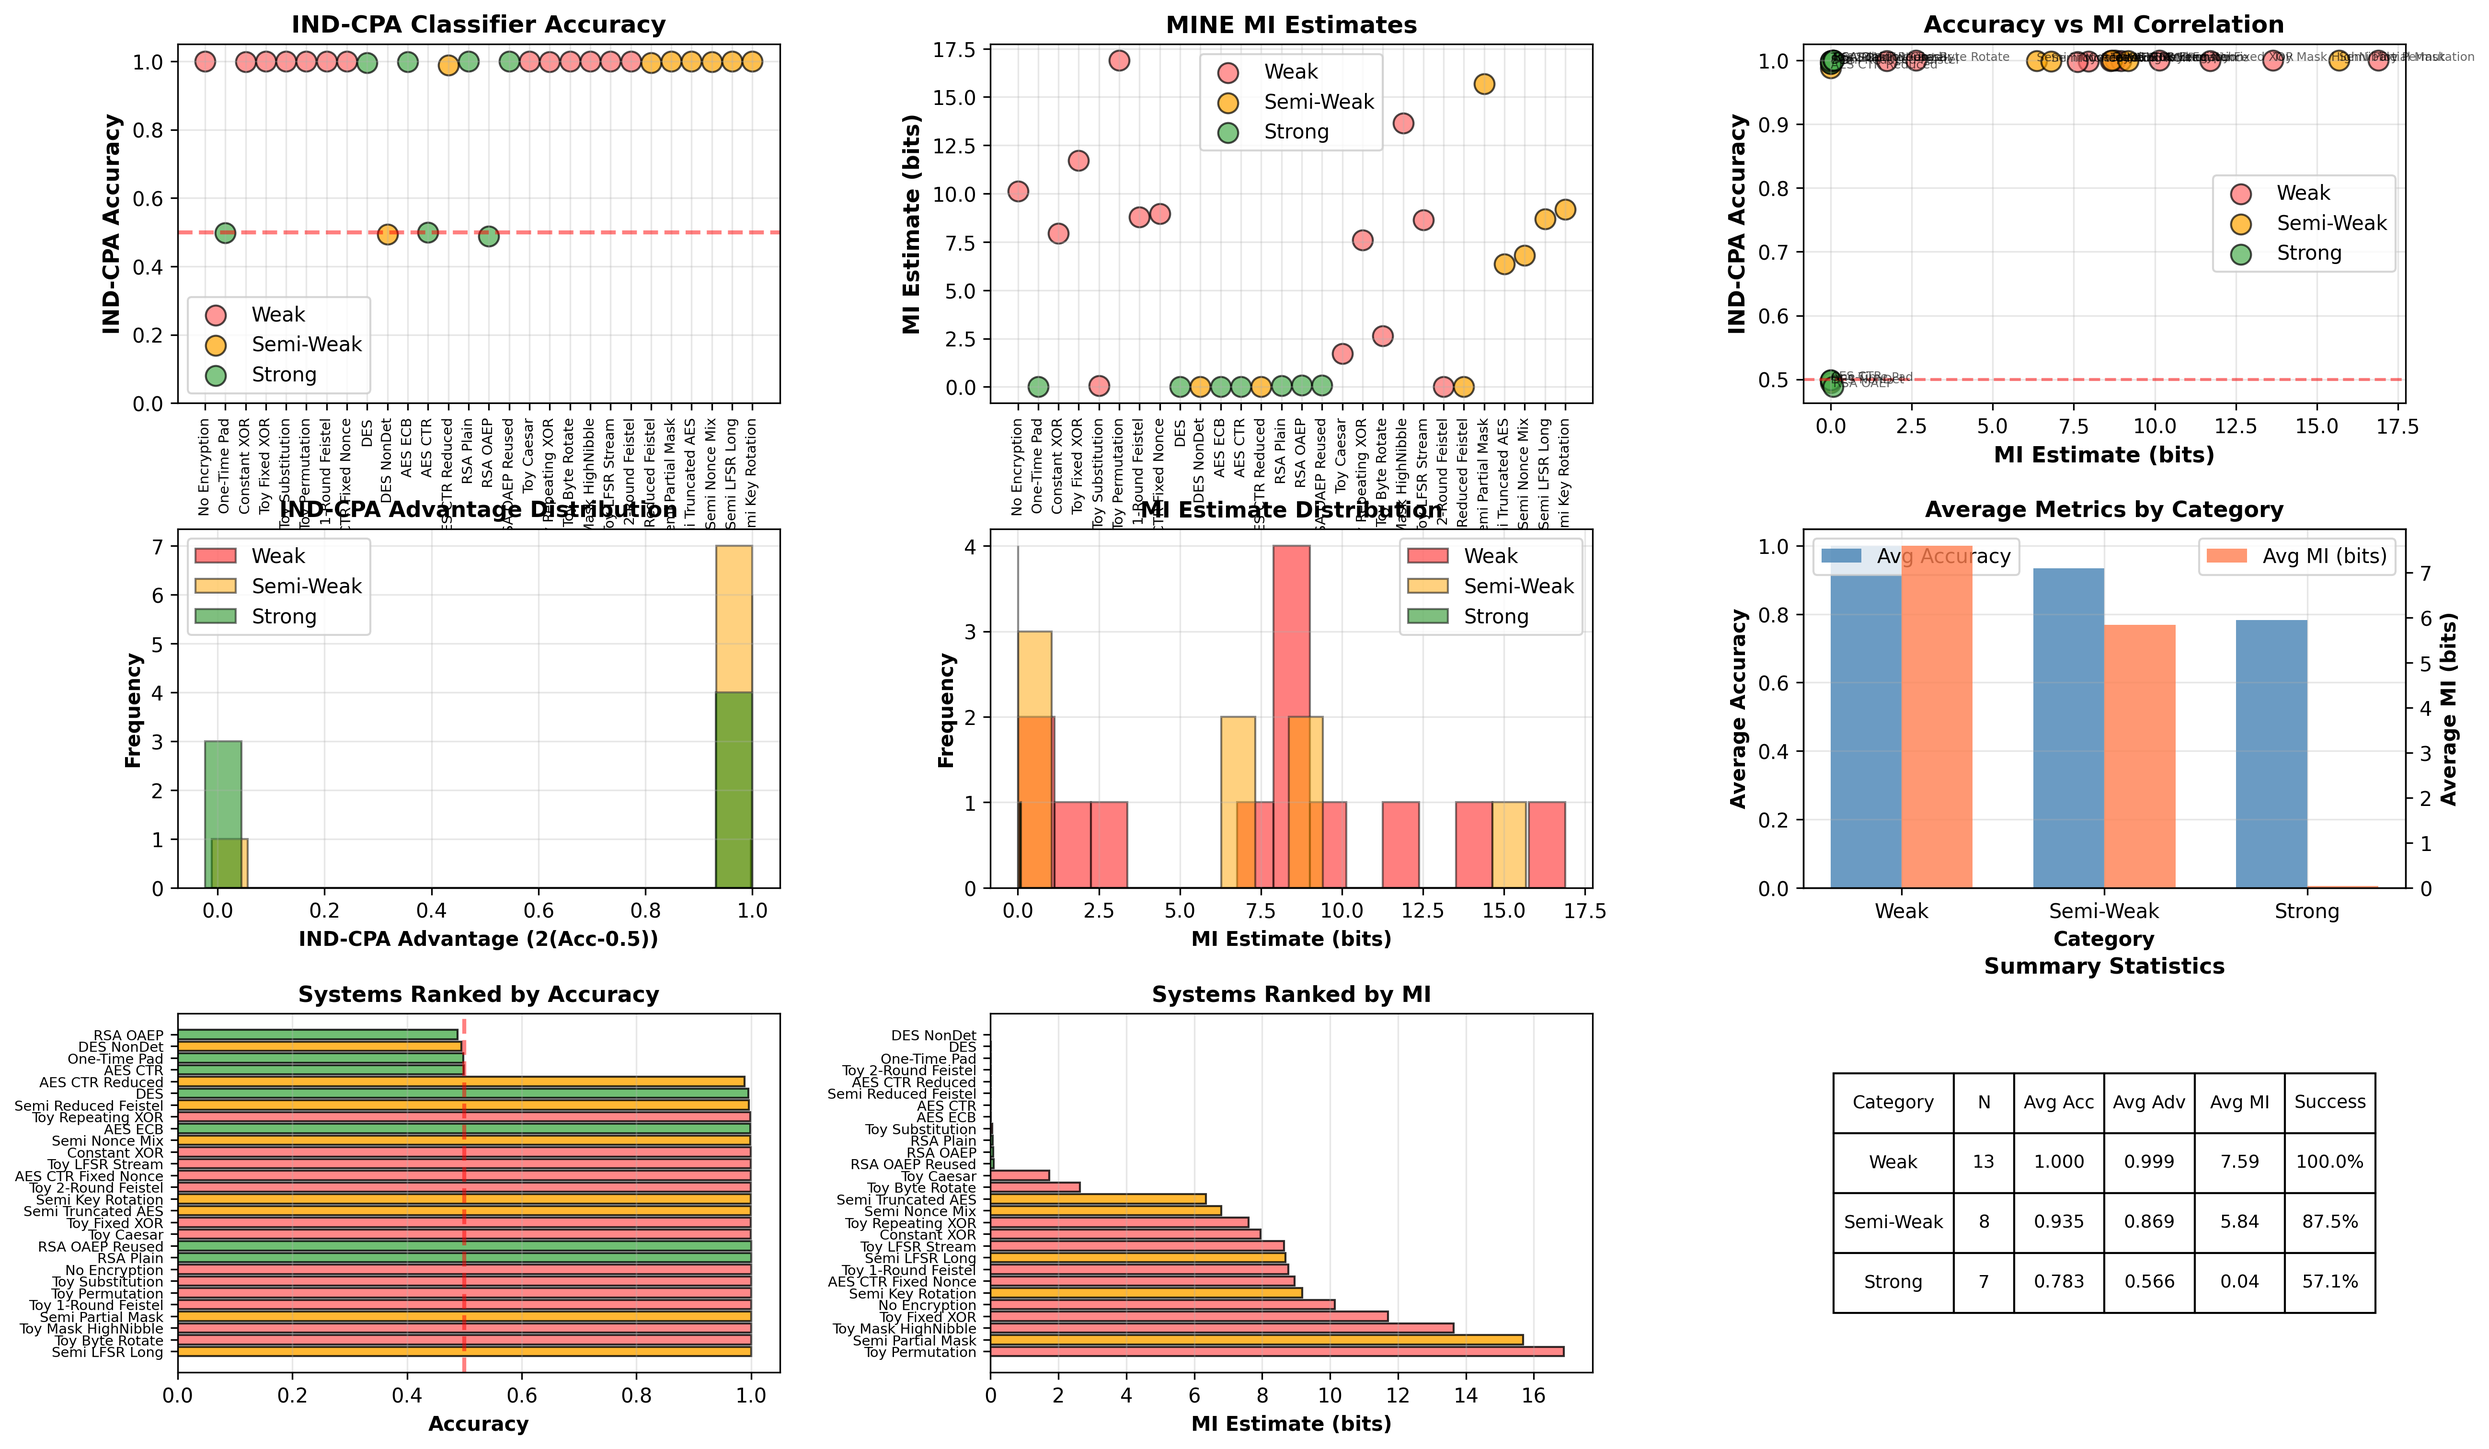
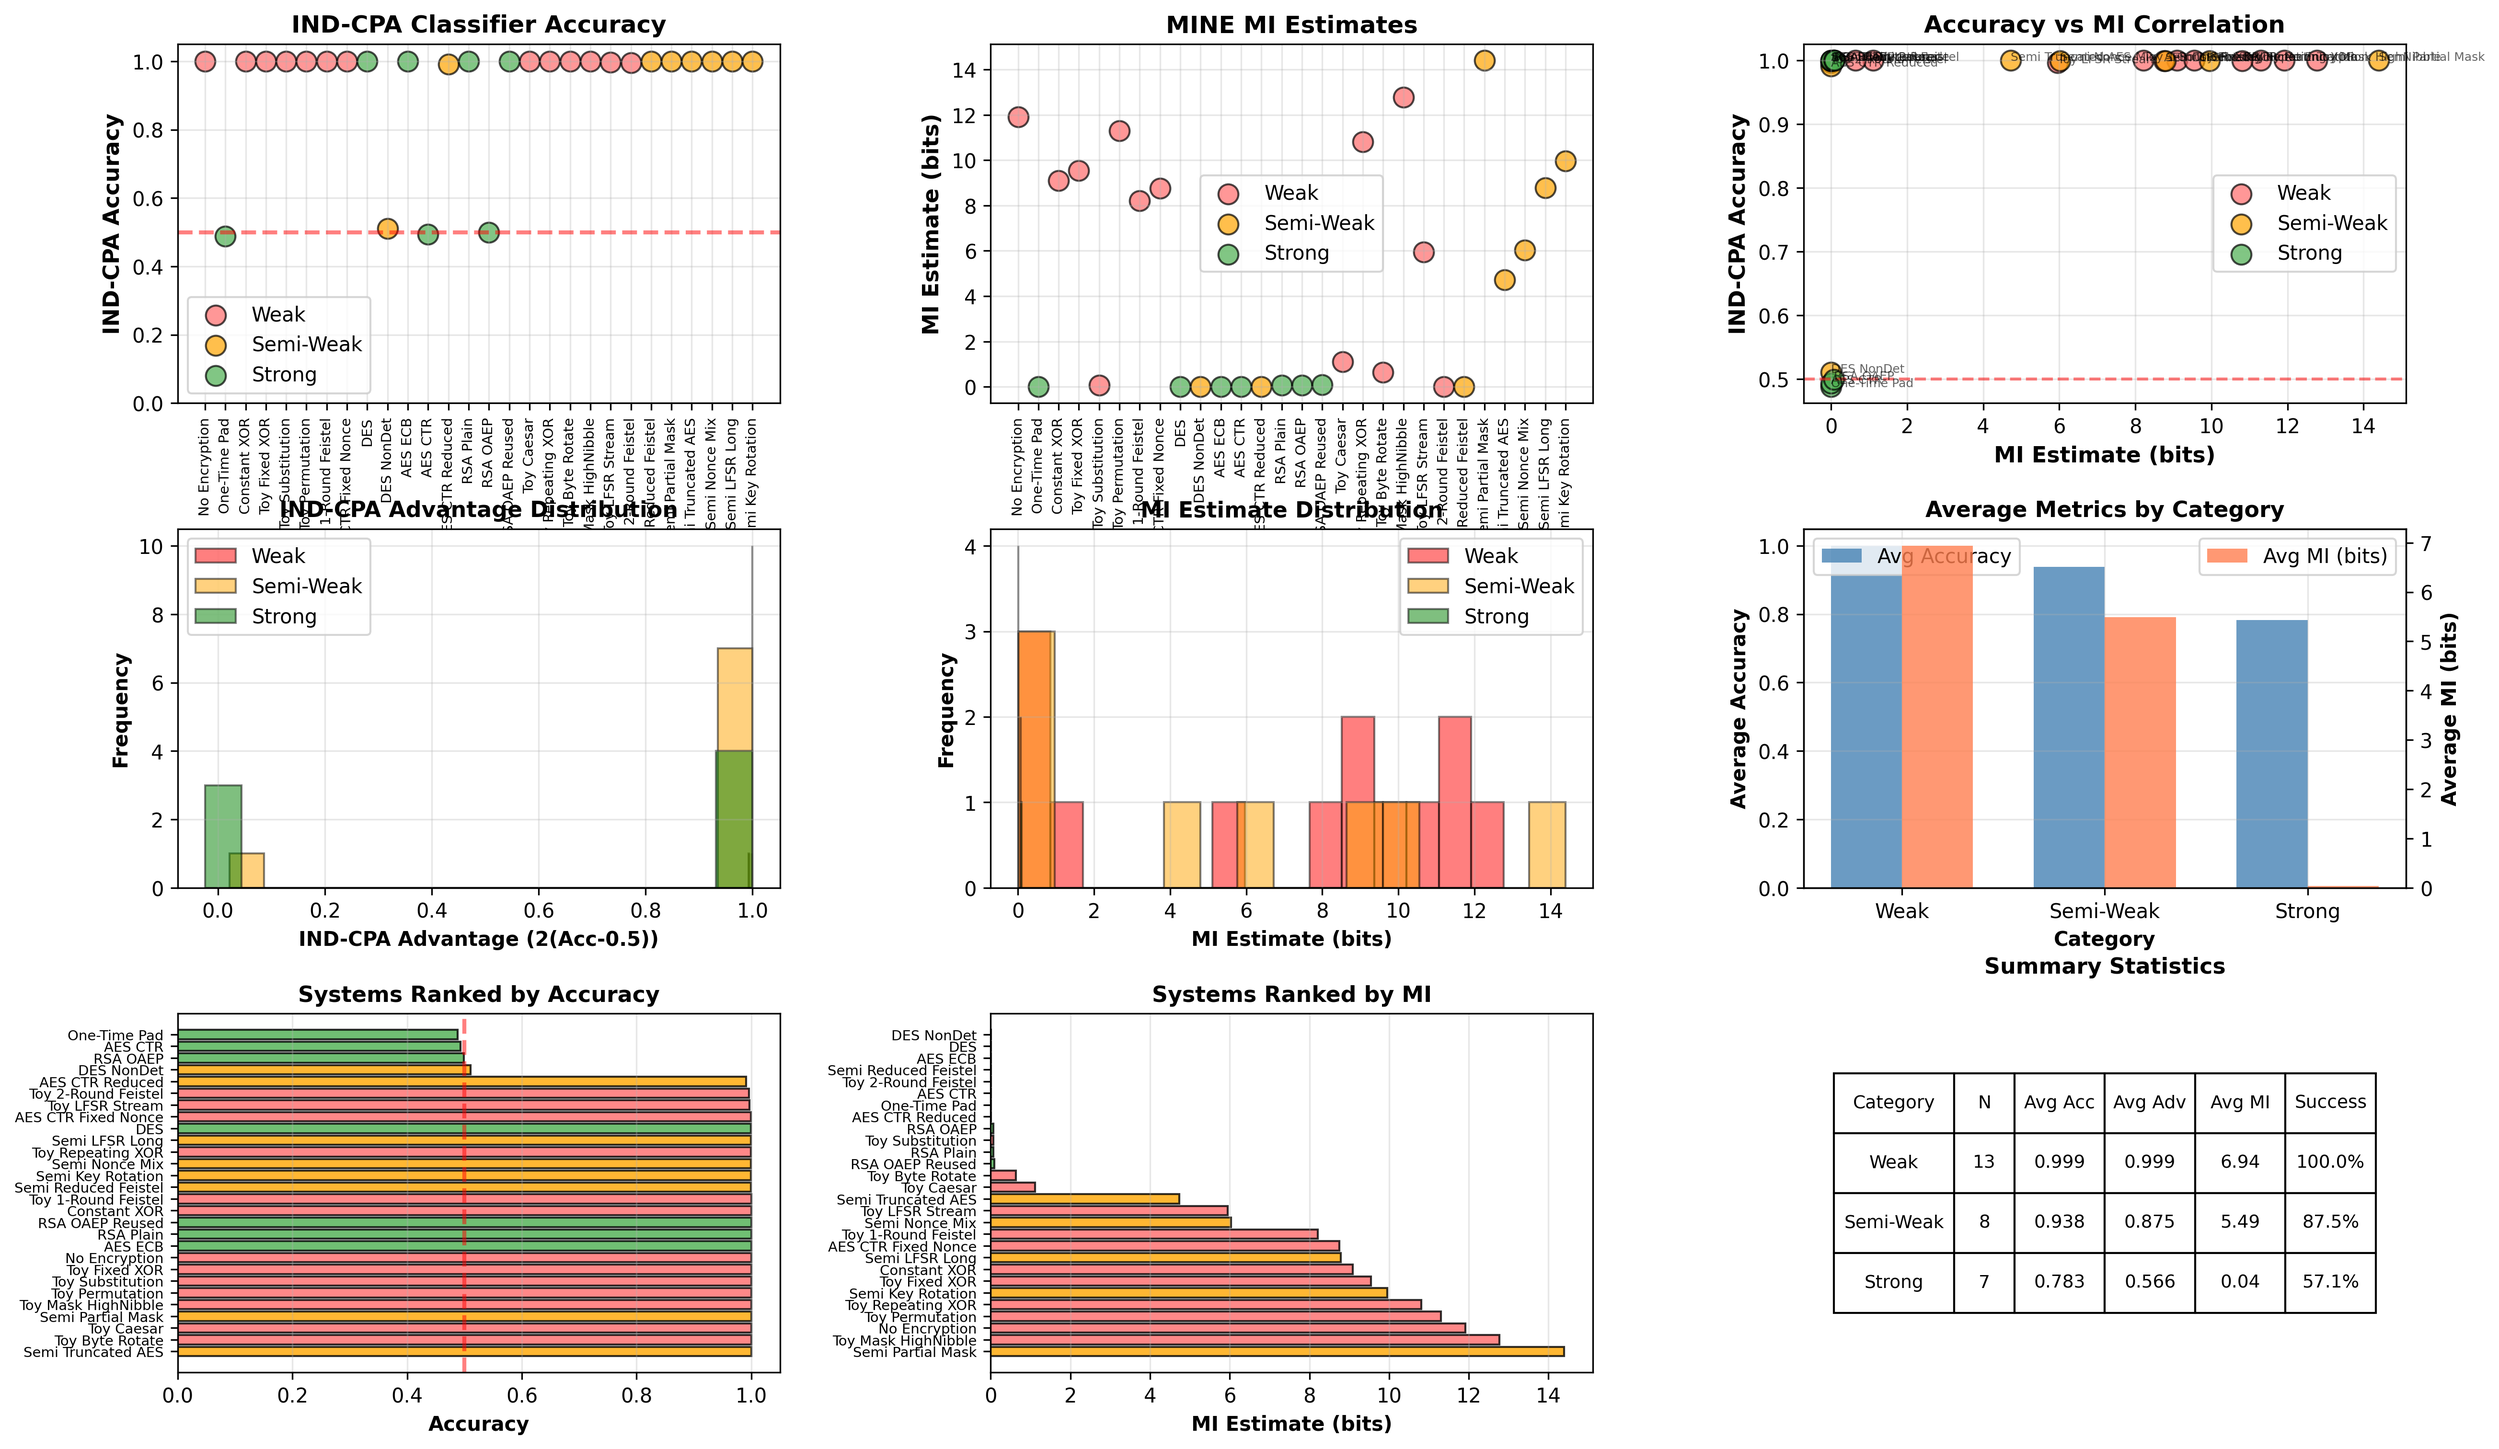
heatmap

diff --git a/indcpa.py b/indcpa.py
@@ -292,27 +292,34 @@ class MINE:
         self.opt = optim.Adam(self.net.parameters(), lr=lr, weight_decay=1e-5)
 
     def estimate_mi(self, M: np.ndarray, C: np.ndarray,
-                    batch_size: int = 512, epochs: int = 200, verbose: bool = False):
+                batch_size: int = 512, epochs: int = 200, verbose: bool = False):
         M_t = torch.tensor(M, dtype=torch.float32).to(self.device)
         C_t = torch.tensor(C, dtype=torch.float32).to(self.device)
         N = M_t.shape[0]
         history = []
 
+        # Split into train and test sets (80/20)
+        split_idx = int(0.8 * N)
+        M_train, M_test = M_t[:split_idx], M_t[split_idx:]
+        C_train, C_test = C_t[:split_idx], C_t[split_idx:]
+
+        N_train = M_train.shape[0]
+
         for epoch in range(epochs):
-            perm = torch.randperm(N)
-            for i in range(0, N, batch_size):
+            perm = torch.randperm(N_train)
+            for i in range(0, N_train, batch_size):
                 idx = perm[i:i+batch_size]
-                mb = M_t[idx]
-                cb = C_t[idx]
+                mb = M_train[idx]
+                cb = C_train[idx]
 
                 # Negative samples (marginal shuffle)
-                perm_neg = torch.randperm(N)[:mb.size(0)]
-                c_neg = C_t[perm_neg]
+                perm_neg = torch.randperm(N_train)[:mb.size(0)]
+                c_neg = C_train[perm_neg]
 
                 T_pos = self.net(mb, cb)
                 T_neg = self.net(mb, c_neg)
 
-                # Stable log(mean(exp()))
+                # Stable log-mean-exp
                 lse = torch.logsumexp(T_neg, dim=0)
                 log_mean_exp = lse - torch.log(torch.tensor(T_neg.size(0), device=self.device))
 
@@ -325,6 +332,7 @@ class MINE:
                 torch.nn.utils.clip_grad_norm_(self.net.parameters(), 1.0)
                 self.opt.step()
 
+            # Compute MI on full dataset (for history)
             with torch.no_grad():
                 perm_eval = torch.randperm(N)
                 T_pos_all = self.net(M_t, C_t)
@@ -333,10 +341,19 @@ class MINE:
                 lse_all = torch.logsumexp(T_neg_all, dim=0).item() - np.log(N)
                 mi_est = Ep_all - lse_all
                 history.append(float(mi_est))
+
+                # Compute MI on test set
+                T_pos_test = self.net(M_test, C_test)
+                T_neg_test = self.net(M_test, C_test[torch.randperm(C_test.shape[0])])
+                Ep_test = T_pos_test.mean().item()
+                lse_test = torch.logsumexp(T_neg_test, dim=0).item() - np.log(C_test.shape[0])
+                mi_test = Ep_test - lse_test
+
                 if verbose and (epoch % max(1, epochs // 10) == 0):
-                    print(f"[MINE] epoch {epoch+1}/{epochs}  I(M;C) = {mi_est:.4f} nats")
+                    print(f"[MINE] epoch {epoch+1}/{epochs}  I(M;C) = {mi_est:.4f} nats, Test MI = {mi_test:.4f} nats")
 
         return history[-1], history
+
 
 def bytes_list_to_matrix(byte_list: List[bytes], target_len: int) -> np.ndarray:
     N = len(byte_list)
